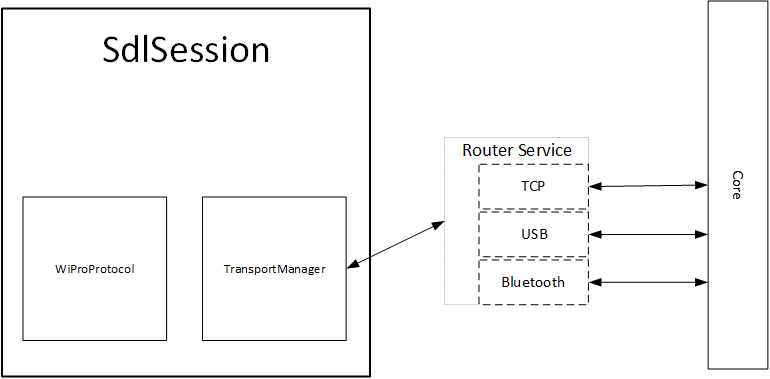
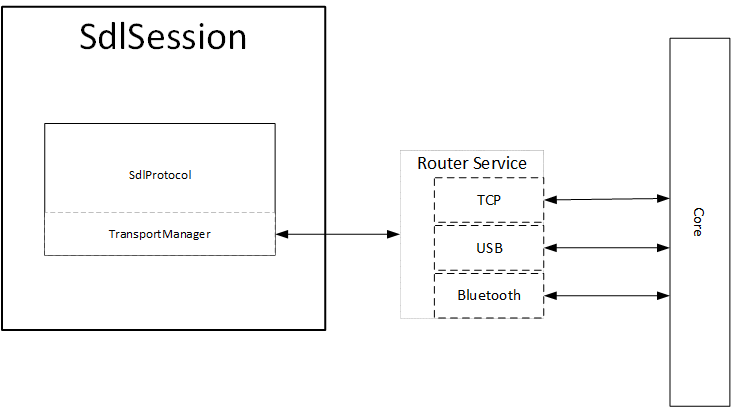
Update transport overhaul proposal

diff --git a/proposals/NNNN-android-transport-overhaul.md b/proposals/NNNN-android-transport-overhaul.md
@@ -14,6 +14,9 @@ This proposal includes information gathered from other proposals and they should
 
 Larger code snippets are attached to the [(appendix)](#appendix).
 
+Current code in development can be found at the [Transport Overhaul branch](https://github.com/smartdevicelink/sdl_android/pull/768).
+
+
 ## Motivation
 
 There are two main reasons behind the motivation of this proposal: improper logic location and moving all transports to multiplexing architecture.
@@ -26,7 +29,7 @@ Next, the current transport layer doesn't work well for implementing simultaneou
 
 ### Refactor Transport Layer
 
-The first step will be to refactor how the transport layer works.
+The first step will be to refactor how the transport and protocol layers work.
 
 Currently this is how the transport layer looks. As can be seen the protocol layer is mixed into the transport layer and only receiving messages through multiple listeners. 
 
@@ -34,18 +37,21 @@ Currently this is how the transport layer looks. As can be seen the protocol lay
 
 ![Old Layers](../assets/proposals/NNNN-android-transport-overhaul/TransportOverhaul_old.png "Old transport layers")
 
+The first implementation will look like this for a minor change.
+![Bridge Layers](../assets/proposals/NNNN-android-transport-overhaul/TransportOverhaul_bridge.png "Bridged transport layers")
+
 
 After the refactor the layers will look like this.
 
 ![New Layers](../assets/proposals/NNNN-android-transport-overhaul/TransportOverhaul_new.png "New transport layers")
 
-#### Move WiProProtocol Instance
+#### Move the protocol layer 
 
-The `WiProProtocol` instance needs to be moved away from the transport layer. It will get moved into the `SdlSession` class. All control frame messages and related `SdlPacket` messages will be sent into the `WiProProtocl` instance for handling. 
+The protocol layer needs to be moved away from inside the transport layer. It actually needs to be the exact opposite. The protocol layer should sit ontop of the transport layer. A new protocol layer will be created, `SdlProtocol` that will be instantiated into the `SdlSession` class. All control frame messages and related `SdlPacket` messages will be sent into the `WiProProtocl` instance for handling from the transport layer. The protocol layer will then determine whether or not packets need to move up the stack. 
 
 #### Transport Manager
 
-This will be the new bridge between the transports and the `SdlSession`. All the data gathered and delivered to the library will be passed to the `SdlSession`. This way, the `SdlSession` can decide where packets should go in logical blocks instead of the transport layer.
+This will be the new bridge between the transports and the `SdlRouterService`. All the data gathered and delivered to the library will be passed to the `SdlProtocol`. This way, the `SdlProtocol` can decide where packets should go in logical blocks instead of the transport layer.
 
 #### All Transports to Router Service
 
@@ -53,11 +59,16 @@ The next piece required for this refactor will be to move all the transport conn
 
 #### ForceOnConnect Removal
 
-The `ForceOnConnect` extra will no longer be used so the logic for it can be removed. This piece of integration has always been extra clutter and very error prone. It's removal from necessity will make the library more stable.
+The `ForceOnConnect` extra will no longer be used so the logic for it can be removed. This piece of integration has always been extra clutter and very error prone. It's removal from necessity will make the library more stable and less developer error prone.
 
-#### AOA Multiplexing
+#### AOA and TCP Multiplexing
 
-A new USB transport discussed later, will be implemented into the `SdlRouterService`. This will allow all apps to connect through the USB transport when it is available. 
+A new USB and TCP transport discussed later, will be implemented into the `SdlRouterService`. This will allow all apps to connect through the USB and TCP transports when it is available. 
+
+###### TCP Single SDL Port Assumption
+A current assumption about the TCP transport is that the SDL core module will only expose a single port for all apps to connect through for a secondary transport. 
+
+The ability will be added to modify this in the future so that the router service can hold multiple transports of the same type, but for unless it is required the feature can be implemented at a latter time. 
 
 
 ### Simultaneous Transport Modifications 
@@ -73,7 +84,6 @@ The config will be updated to hold a few extra settings
 3. High bandwidth required flag - flag for those apps that will require at least one available transport that can support the high bandwidth needs. Default will be false.
 
 In practice, developers will only need to set the high bandwidth required flag. However, the setting of primary and secondary transports allows developers to test against certain transports as well as ensures complete control of how they intend for their app to work.
-
 
 
 #### Transport Switching
@@ -198,10 +208,21 @@ public boolean handleIncommingClientMessage(final Bundle receivedBundle){
 
 #### SdlPacket Update
 
-The `SdlPacket` class will now include a `TransportType` for the local library. This lets the router service know which transport to send a packet. Also, when the router service receives a packet from the core module and relays it to the bound client app, the client knows where the packet came from.
+The `SdlPacket` class will now include a `TransportRecord` for the local library. This lets the router service know which transport to send a packet. Also, when the router service receives a packet from the core module and relays it to the bound client app, the client knows where the packet came from.
 
 ```java
-TransportType transportType;
+public class TransportRecord implements Parcelable{
+
+    TransportType type;
+    String address;
+
+    public TransportRecord(TransportType transportType, String address){
+        this.type = transportType;
+        this.address = address;
+    }
+
+    ....    
+}
 ```
 
 
@@ -211,12 +232,10 @@ If the router service notices a Register Transport control frame ACK is received
 
 ### Breaking change phase
 
-#### Rename WiProProtocol
-This name is an artifact of previous contractors working on the project. The class we actually used should be named `SdlProtocol`. During the next breaking change release, the class should be renamed and the `AbstractProtocol` class removed.
 
-#### Remove SdlConnection and Listener
+#### Remove WiProProtocol, SdlConnection, and Listener
 
-Both of these will no longer be necessary and should be removed.
+All of these will no longer be necessary and should be removed.
 
 #### Move SdlSession Class
 
@@ -242,6 +261,7 @@ It will be required to remove all deprecated methods previously by this proposal
 
 ## Appendix
 
+**NOTE: Some code snippets might change during implementation and might have already changed, however, the changes should be relatively small.**
 
 #### MultiplexBaseTransport Code
 
